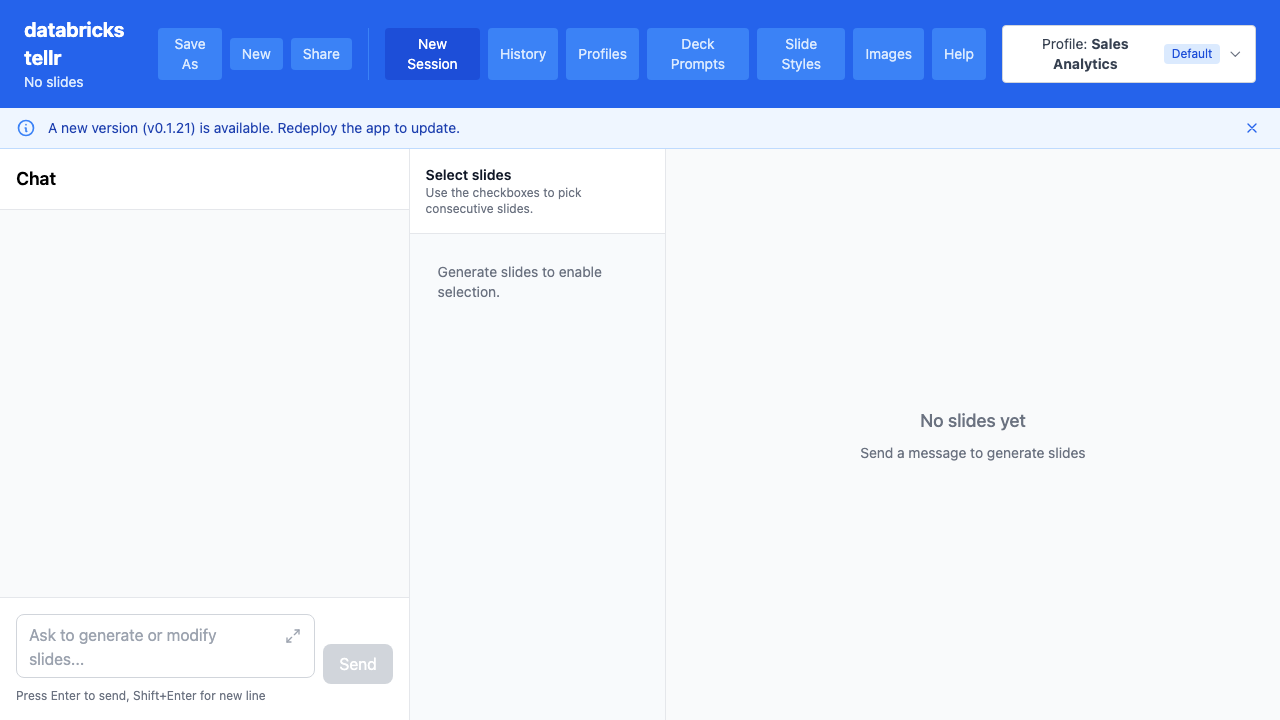
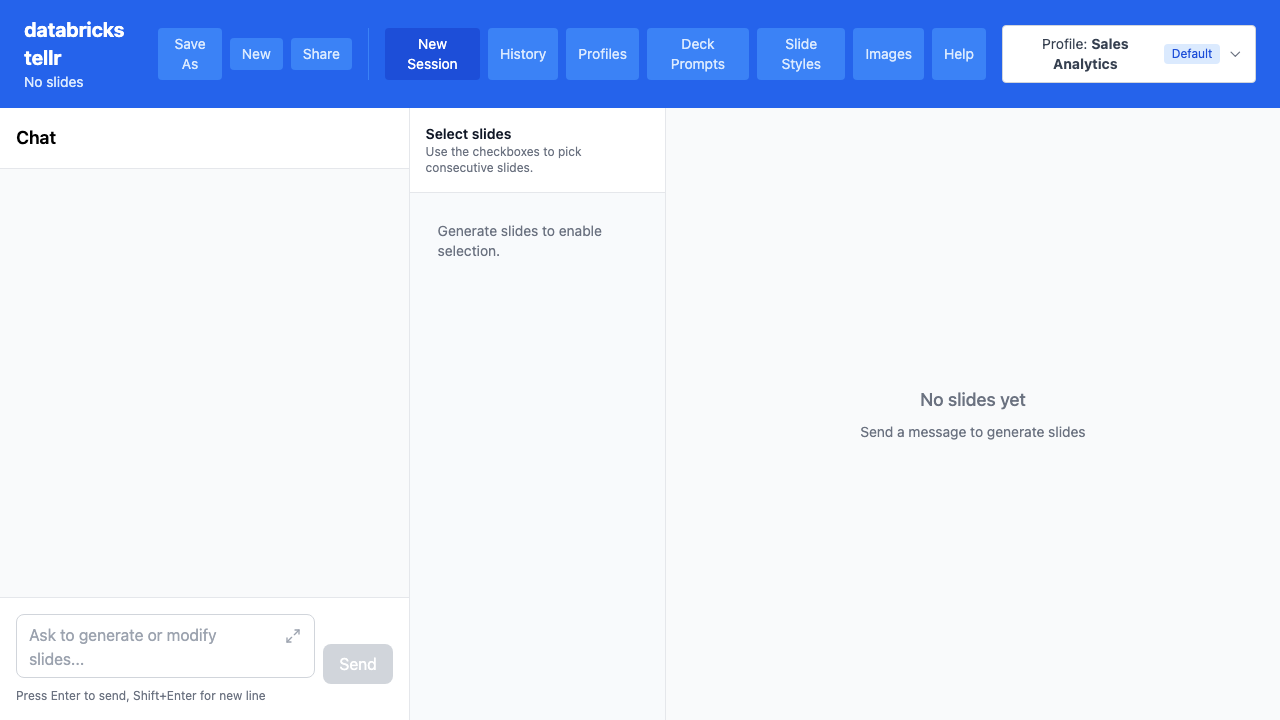
docs: refresh user guide screenshots and update text for URL routing
Regenerated all screenshots via Playwright to reflect current UI with
New Session navigation. Updated guide text to reference "New Session"
instead of "Generator" and added section on restoring previous sessions
from History.

Changed region(s): [[0.0, 0.1528, 0.4688, 0.4278], [0.6562, 0.55, 0.8438, 0.6417]]

diff --git a/docs/user-guide/01-generating-slides.md b/docs/user-guide/01-generating-slides.md
@@ -20,25 +20,25 @@ The slide generation workflow allows you to:
 
 ### Step 01: Open the App
 
-Navigate to the application URL. You'll see the main navigation and the Help page by default.
+Navigate to the application URL. You'll see the main navigation bar and the Help page by default. The Help page provides a quick start guide and links to each feature.
 
 ![Open the app](images/01-generating-slides/01-app-landing.png)
 
-### Step 02: Navigate to Generator
+### Step 02: Start a New Session
 
-Click "Generator" in the navigation bar to access the slide generation interface.
+Click **New Session** in the navigation bar. This creates a new session and opens the slide generation interface with a chat panel on the left and the slide panel on the right.
 
-![Navigate to Generator](images/01-generating-slides/02-generator-view.png)
+![New Session view](images/01-generating-slides/02-generator-view.png)
 
 ### Step 03: Check Your Profile
 
-The current profile is displayed in the header. This determines which Genie room, slide style, and deck prompt are used.
+The active profile is shown in the top-right corner. This determines which Genie room, slide style, and deck prompt are used for generation.
 
 ![Profile selector](images/01-generating-slides/03-profile-selector.png)
 
 ### Step 04: Change Profile (if needed)
 
-Click the profile button to see available profiles and switch if needed.
+Click the profile selector to see available profiles and switch if needed.
 
 ![Profile dropdown](images/01-generating-slides/04-profile-dropdown.png)
 
@@ -60,7 +60,7 @@ Type a clear, specific prompt describing what you want:
 
 ### Step 07: Send Your Request
 
-Click the Send button or press Enter to start generation.
+Click the **Send** button or press Enter to start generation.
 
 ![Send button](images/01-generating-slides/07-send-button-enabled.png)
 
@@ -68,11 +68,11 @@ Click the Send button or press Enter to start generation.
 
 After slides are generated, they appear in the right panel. You can see progress in the chat panel as slides stream in.
 
-After initial generation, you can refine selected slides through conversation:
+Refine slides through follow-up messages in the same session:
 
 | Action | Example Prompt |
 |--------|----------------|
-| Edit a slide contents | "Change title to 'Q4 Results'" |
+| Edit slide contents | "Change title to 'Q4 Results'" |
 | Add a slide | "Add a new slide about \{X\} after this one" |
 | Regenerate all | "Regenerate all slides with more data" |
 
@@ -82,12 +82,17 @@ Click the checkbox on individual slides to select them. Selected slides can be:
 - Edited as a group
 - Verified for data accuracy
 
+## Returning to a Previous Session
+
+To get back to a previous session, click **History** in the navigation bar. Any session with slides has a **Restore** button that loads it back into the editor.
+
 ## Tips
 
 - **Be specific**: Include topic, audience, and desired outcomes in your prompt
 - **Use data queries**: Ask questions about your data, e.g., "Show top 10 customers by revenue"
 - **Iterate**: Start simple and refine through follow-up messages
 - **Check verification**: Click Verify on slides with data claims to validate accuracy
+- **Share your work**: Use the **Share** button to copy a read-only link to your presentation
 
 ## Related Guides
 

diff --git a/docs/user-guide/README.md b/docs/user-guide/README.md
@@ -13,8 +13,8 @@ Welcome to the Databricks Tellr user guide. This documentation covers the main w
 ## Quick Start
 
 1. **Open the app** - Navigate to the application URL
-2. **Select a profile** - Choose a profile that connects to your data source
-3. **Go to Generator** - Click "Generator" in the navigation
+2. **Start a session** - Click "New Session" in the navigation bar
+3. **Check your profile** - The active profile is shown top-right; switch if needed
 4. **Enter a prompt** - Describe the presentation you want to create
 5. **Send** - Click Send and watch your slides generate
 
